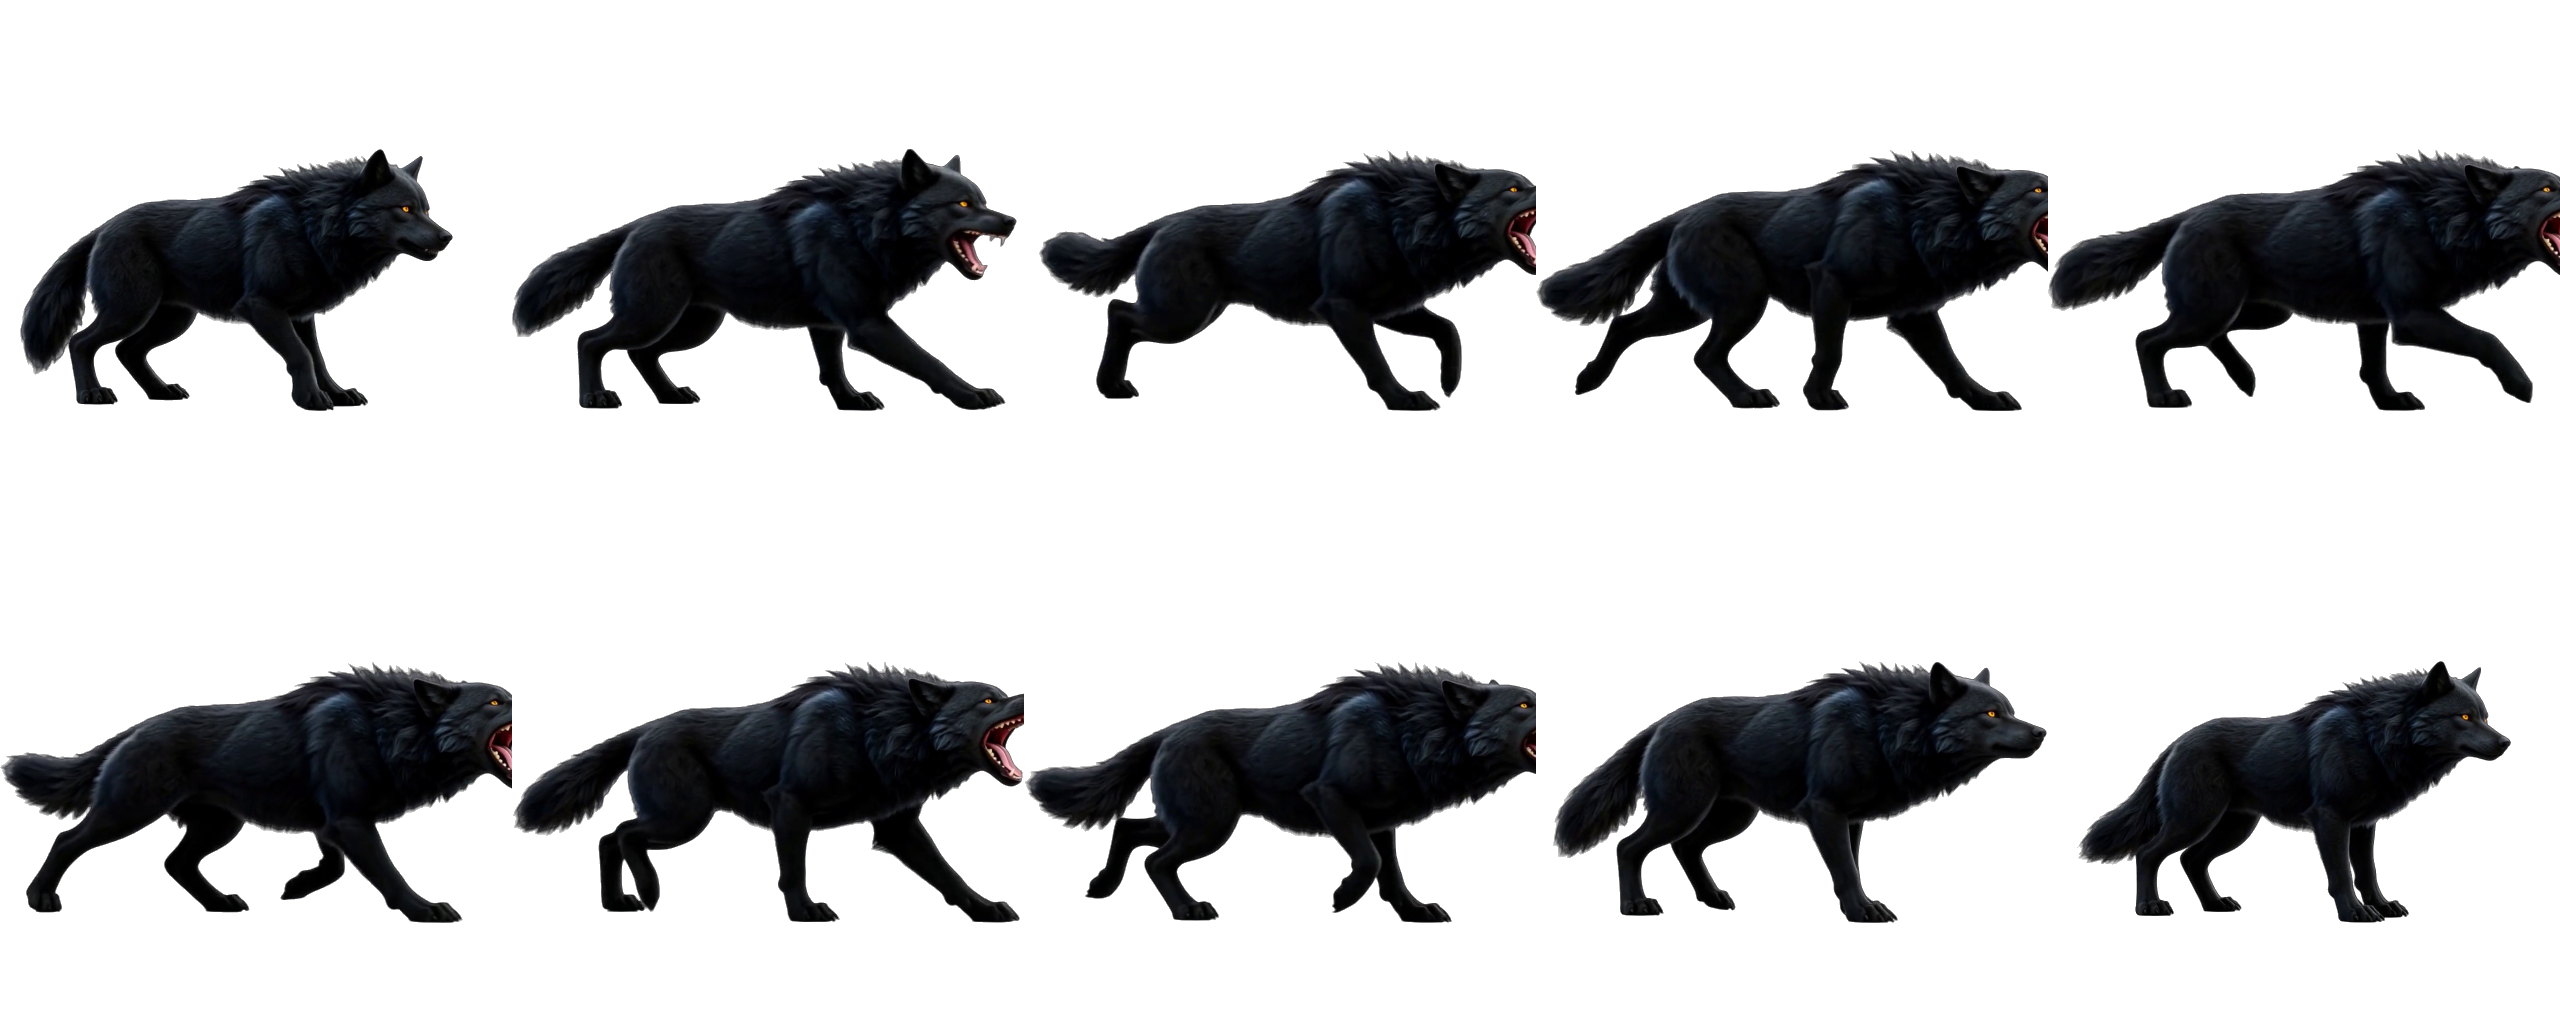
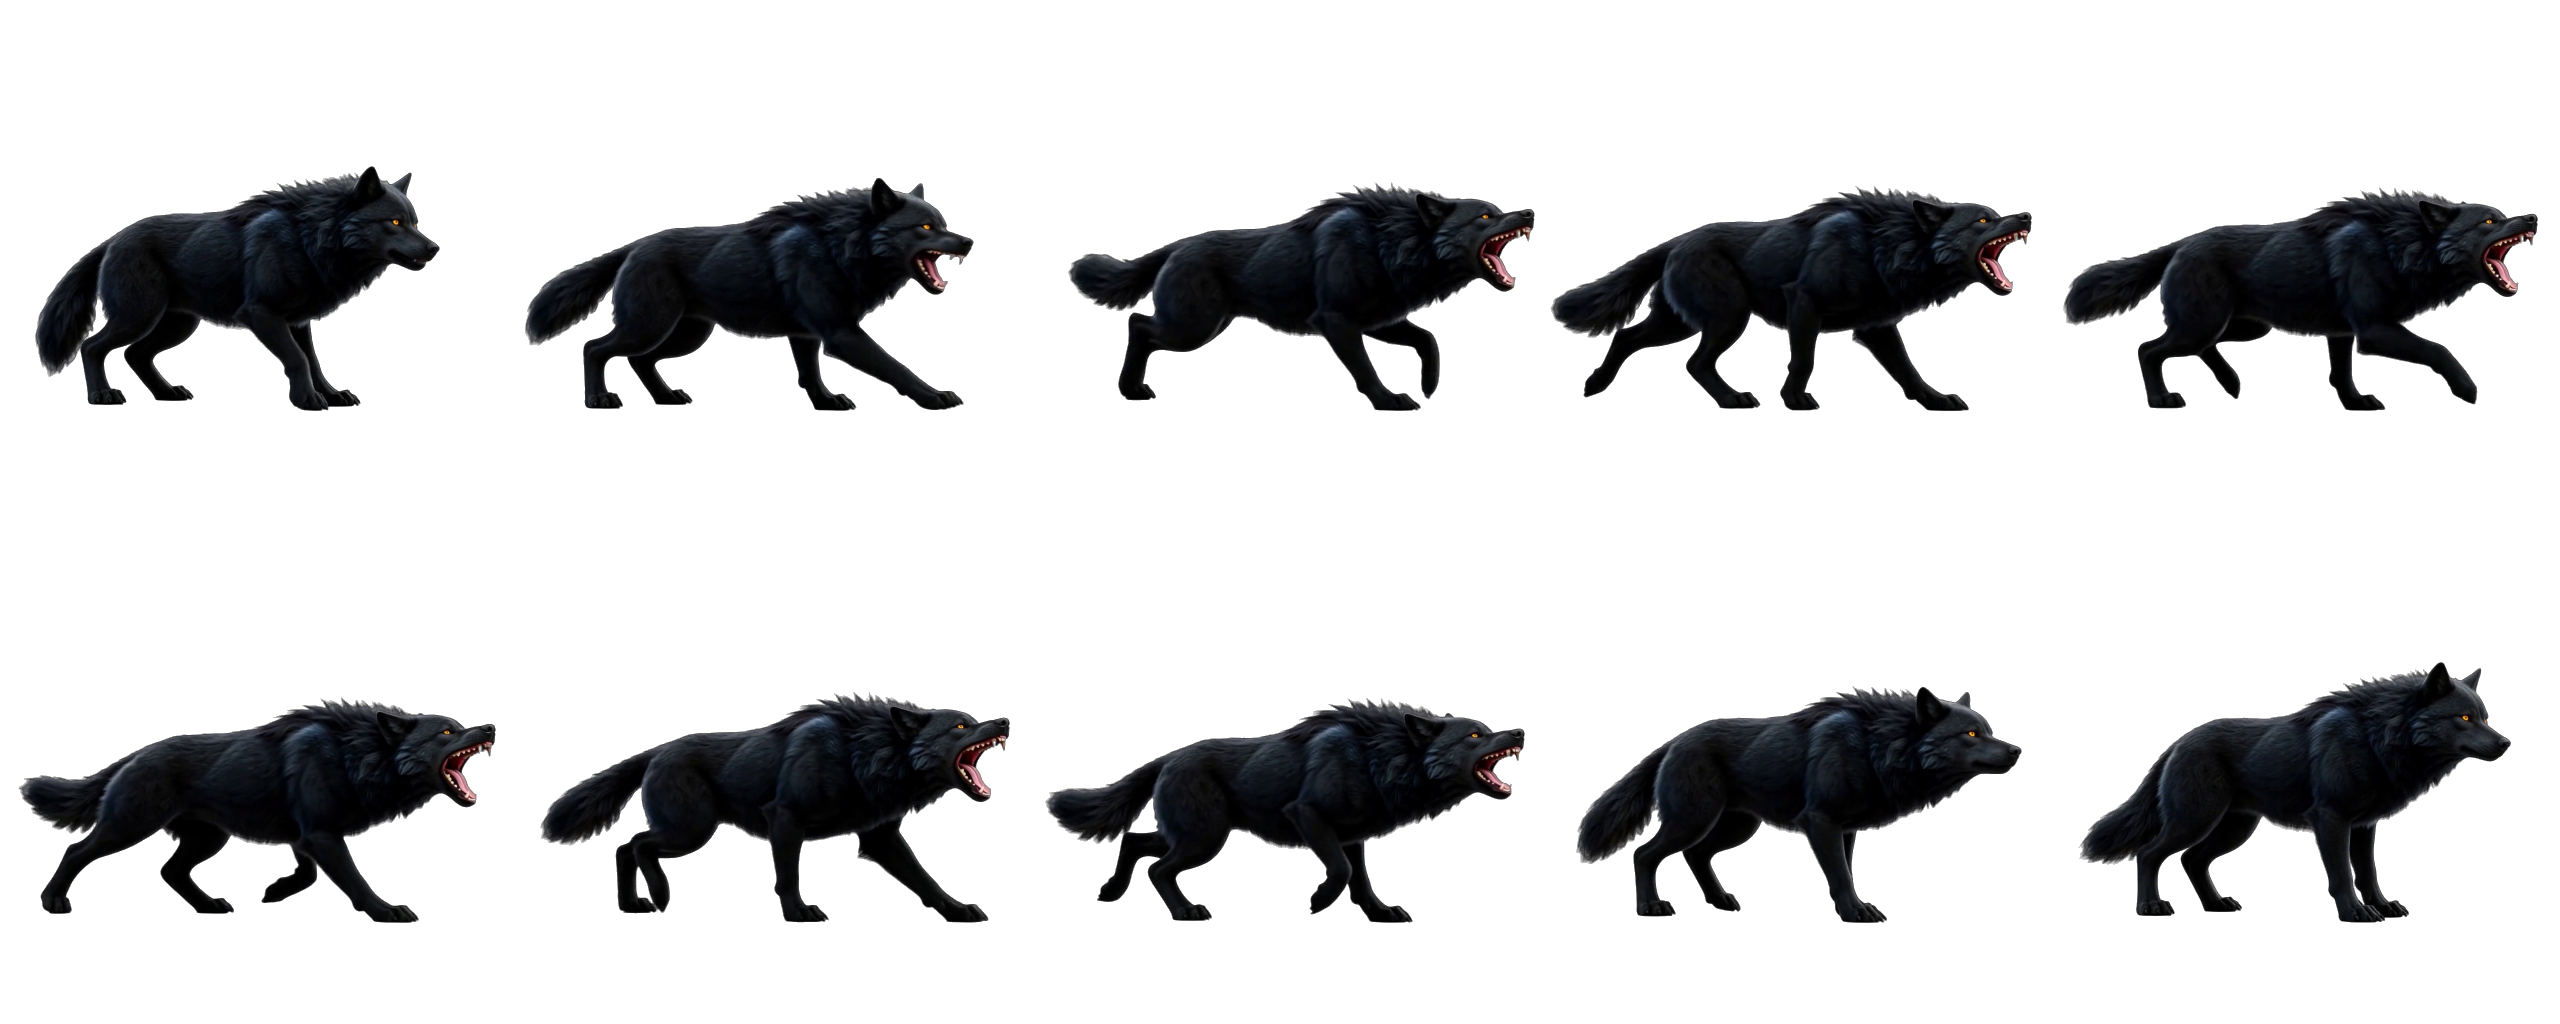
fix(enemy): 黑狼攻击帧固定缩放比例 + 防裁切——修复撕咬误放大与截取不全
- 根因：逐帧 262 高度缩放放大蓄力压低帧(525→6%)；前扑宽度+位移超 512 cell 被裁剪
- 修复：h3-attack-spritesheet 默认 fixed_scale(全部帧用首帧同比例)+ ox clamp 防裁切
- 撕咬 v3：帧高 224~261(蓄力自然变矮)、宽 405~482 完整；飞扑 v3：宽 431~504 完整
- GLM 验收：大小一致/前扑完整/无白边/动作自然

diff --git a/tools/ai-gen/h3-attack-spritesheet.py b/tools/ai-gen/h3-attack-spritesheet.py
@@ -80,11 +80,21 @@ def detect_attack_frames(frames, min_diff=0.10, min_frames=6):
 
 
 def build_sheet(frames, idxs, out, cols, target_h=262, feet_y=410, center_x=256,
-                cell_size=512, out_gif=None, threshold=248, feather=0.3):
-    """Build attack sheet; horizontal offset preserves the lunge vs frame 0."""
+                cell_size=512, out_gif=None, threshold=248, feather=0.3,
+                fixed_scale=True):
+    """Build attack sheet; horizontal offset preserves the lunge vs frame 0.
+
+    fixed_scale=True (default): all frames use the SAME scale as the reference
+    frame (frame 0), so the wolf stays the same on-screen size as idle and the
+    lunge/lean reads as pose change, not zoom. Per-frame height rescaling
+    (fixed_scale=False) was found to magnify crouch frames and clip wide
+    pounce frames (2026-08-06 black wolf bite feedback).
+    """
     a0 = key_frame(frames[0], threshold=threshold, feather=feather)
     ys0, xs0 = np.where(a0 > 30)
     ref_cx = (xs0.min() + xs0.max()) / 2
+    ref_h = ys0.max() - ys0.min() + 1
+    fixed_scale_val = target_h / max(1, ref_h) if fixed_scale else None
     cells = []
     for k in idxs:
         alpha = key_frame(frames[k], threshold=threshold, feather=feather)
@@ -93,23 +103,29 @@ def build_sheet(frames, idxs, out, cols, target_h=262, feet_y=410, center_x=256,
         x0, x1, y0, y1 = xs.min(), xs.max(), ys.min(), ys.max()
         crop = f[y0:y1 + 1, x0:x1 + 1]
         a = alpha[y0:y1 + 1, x0:x1 + 1]
-        scale = target_h / (y1 - y0 + 1)
-        nw = max(1, round((x1 - x0 + 1) * scale))
-        crop = cv2.resize(crop, (nw, target_h), interpolation=cv2.INTER_AREA)
-        a = cv2.resize(a, (nw, target_h), interpolation=cv2.INTER_AREA)
+        ch = y1 - y0 + 1
+        if fixed_scale:
+            scale = fixed_scale_val
+            nh = max(1, round(ch * scale))
+            nw = max(1, round((x1 - x0 + 1) * scale))
+        else:
+            scale = target_h / ch
+            nh = target_h
+            nw = max(1, round((x1 - x0 + 1) * scale))
+        crop = cv2.resize(crop, (nw, nh), interpolation=cv2.INTER_AREA)
+        a = cv2.resize(a, (nw, nh), interpolation=cv2.INTER_AREA)
         cx = (x0 + x1) / 2
         dx = round((cx - ref_cx) * scale)  # preserve horizontal lunge
         cell = np.zeros((cell_size, cell_size, 4), np.uint8)
         ox = int(center_x - nw // 2 + dx)
-        oy = int(feet_y - target_h + 1)
-        if ox < 0:
-            ox = 0
-        if ox + nw > cell_size:
-            nw2 = cell_size - ox
-            crop = crop[:, :nw2]
-            a = a[:, :nw2]
-            nw = nw2
-        cell[oy:oy + target_h, ox:ox + nw] = np.dstack([crop, a])
+        oy = int(feet_y - nh + 1)
+        # 防裁切：内容优先完整，clamp 到 cell 内（不裁剪）
+        ox = max(0, min(ox, cell_size - nw))
+        if ox + nw <= cell_size and oy + nh <= cell_size and oy >= 0:
+            cell[oy:oy + nh, ox:ox + nw] = np.dstack([crop, a])
+        else:
+            print(f"[h3-attack] WARN frame {k} too large for cell "
+                  f"({nw}x{nh} at {ox},{oy}) - skipped")
         cells.append(cell)
     while len(cells) % cols != 0:
         cells.append(np.zeros((cell_size, cell_size, 4), np.uint8))
@@ -155,6 +171,8 @@ def main():
     ap.add_argument("--cell", type=int, default=512)
     ap.add_argument("--threshold", type=int, default=248)
     ap.add_argument("--feather", type=float, default=0.3)
+    ap.add_argument("--fixed-scale", type=int, default=1,
+                    help="1=所有帧用首帧同比例缩放(推荐,防误放大/裁切); 0=逐帧缩放到 target_h")
     args = ap.parse_args()
 
     frames = load_frames(args.video)
@@ -164,7 +182,8 @@ def main():
         idxs, start, end = detect_attack_frames(frames, min_diff=args.min_diff)
         print(f"[h3-attack] detected window [{start},{end}] -> {len(idxs)} frames", flush=True)
     build_sheet(frames, idxs, args.out, args.cols, args.target_h, args.feet_y,
-                args.center_x, args.cell, args.out_gif, args.threshold, args.feather)
+                args.center_x, args.cell, args.out_gif, args.threshold, args.feather,
+                args.fixed_scale == 1)
 
 
 if __name__ == "__main__":
